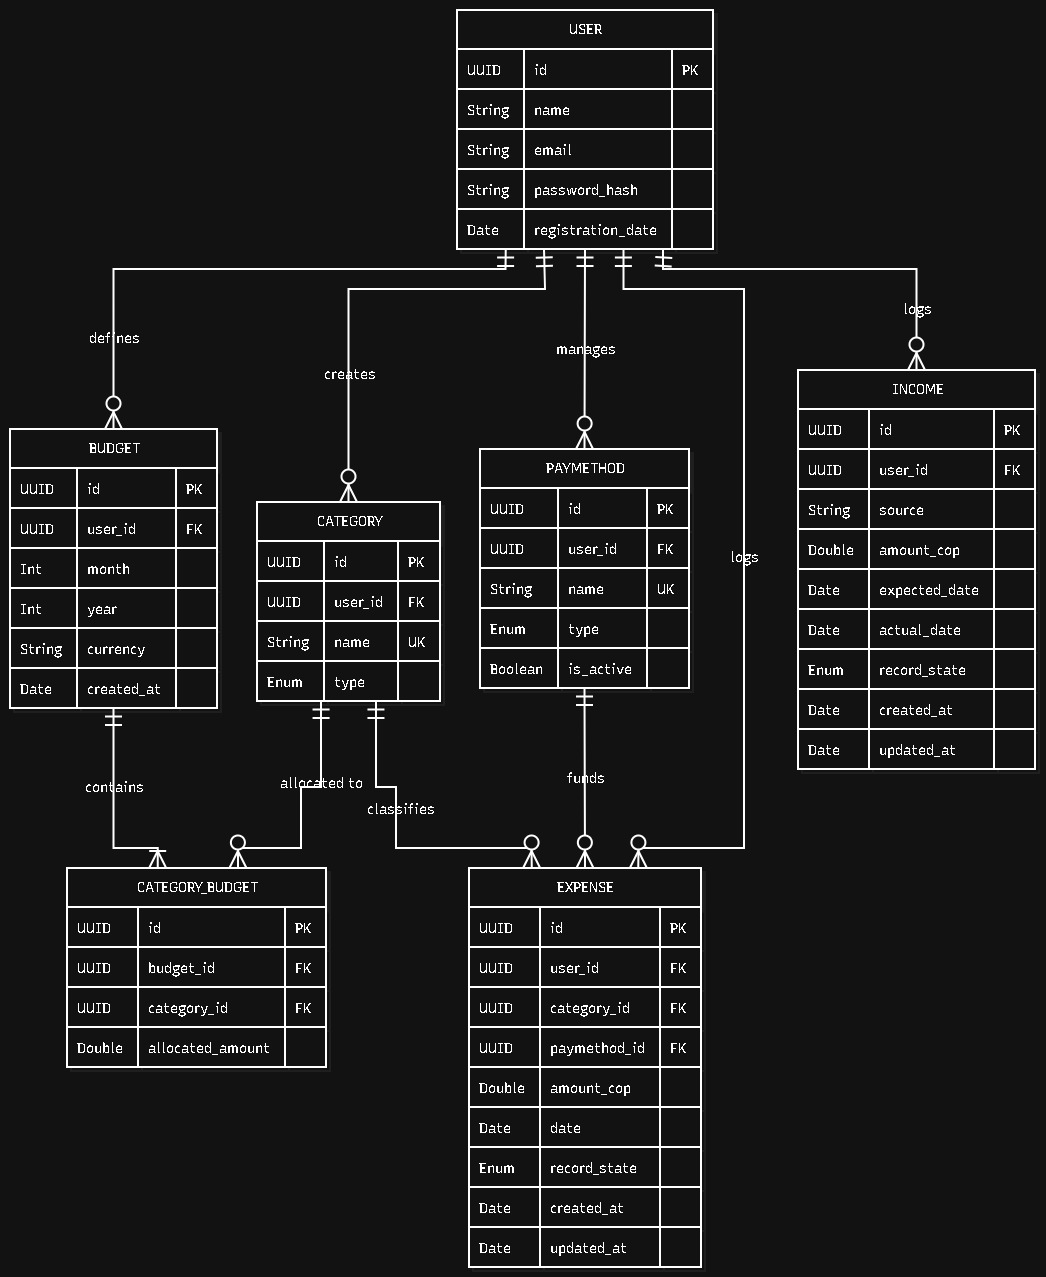
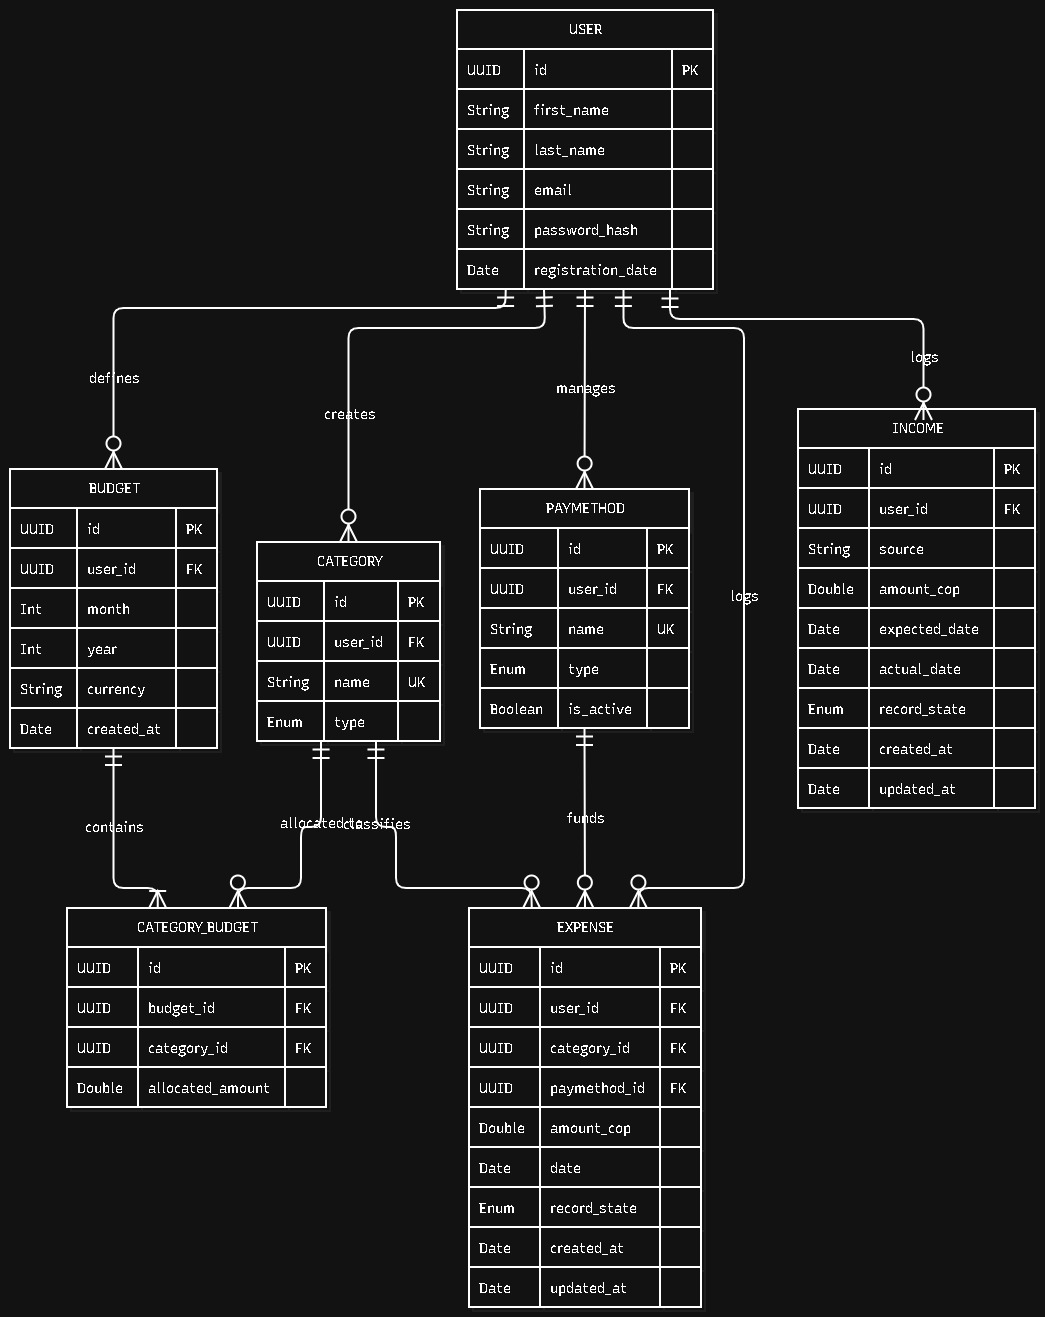
corrections applied

diff --git a/docs/02_Interaction_and_Data_Design.md b/docs/02_Interaction_and_Data_Design.md
@@ -66,8 +66,8 @@ sequenceDiagram
 *(Same structure as 1.1.)*
 
 ---
-
 ## 2. Data Design
+
 ### 2.1 Principal information the system needs
 
 | Information | Needed by (use cases) | Persisted? | Why (or why not) |
@@ -87,7 +87,7 @@ Choose the representation that fits your persistence approach and **justify it i
 
 | Entity / document type | Meaning in the system | Identifier | Constraints (required, unique, allowed values) |
 |---|---|---|---|
-| **USER** | End user profile and authentication data. | `id` (UUID) | `email` (Required, Unique), `password_hash` (Required). |
+| **USER** | End user profile and authentication data. | `id` (UUID) | `email` (Required, Unique), `password_hash` (Required), `first_name` (Required), `last_name` (Required). |
 | **BUDGET** | A user's financial plan for a specific month or year. | `id` (UUID) | `user_id` (FK, Required), `currency` (Required, always 'COP'). |
 | **CATEGORY** | Classification for expenses (default or custom). | `id` (UUID) | `name` (Unique Key per user), `type` (Enum: Need, Want, Saving/Debt). |
 | **CATEGORY_BUDGET** | The specific monetary limit assigned to a category in a budget. | `id` (UUID) | `budget_id` (FK), `category_id` (FK), `allocated_amount` (Required, >= 0). |
